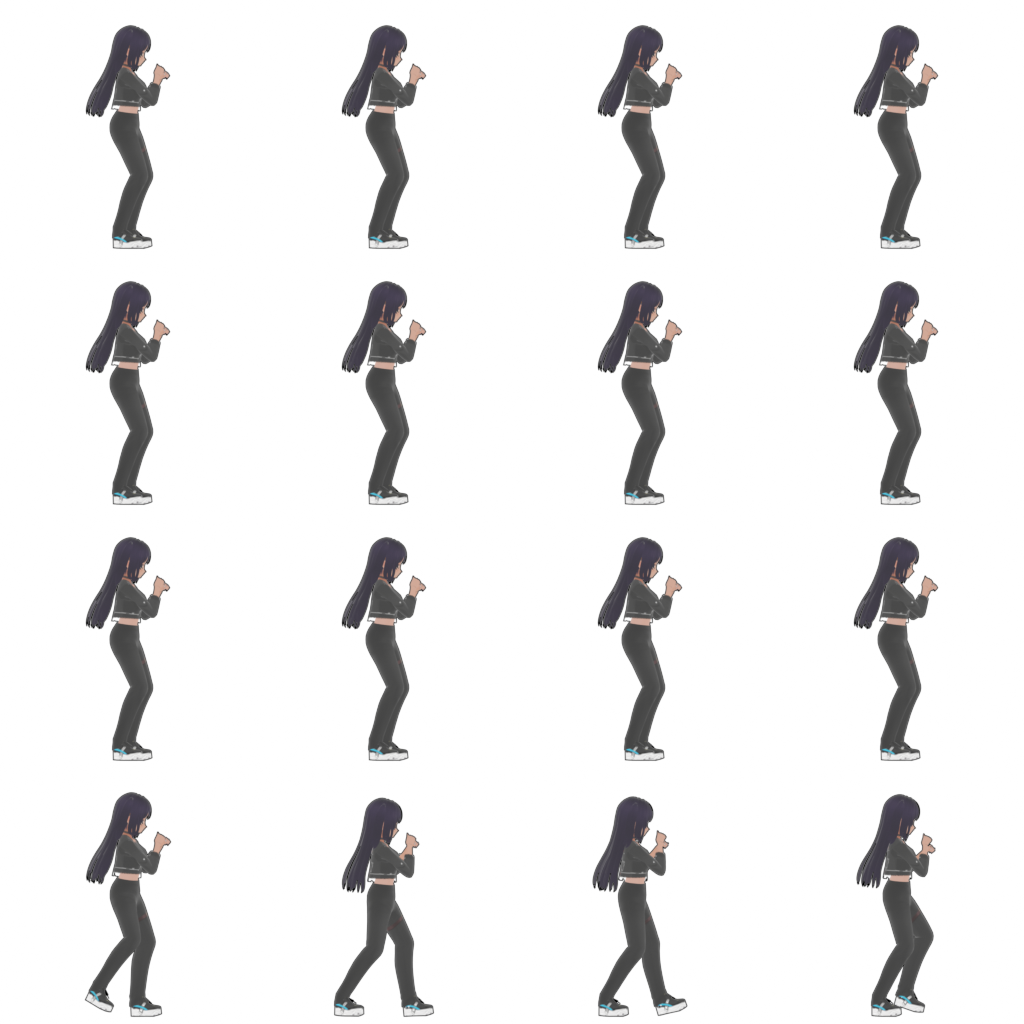
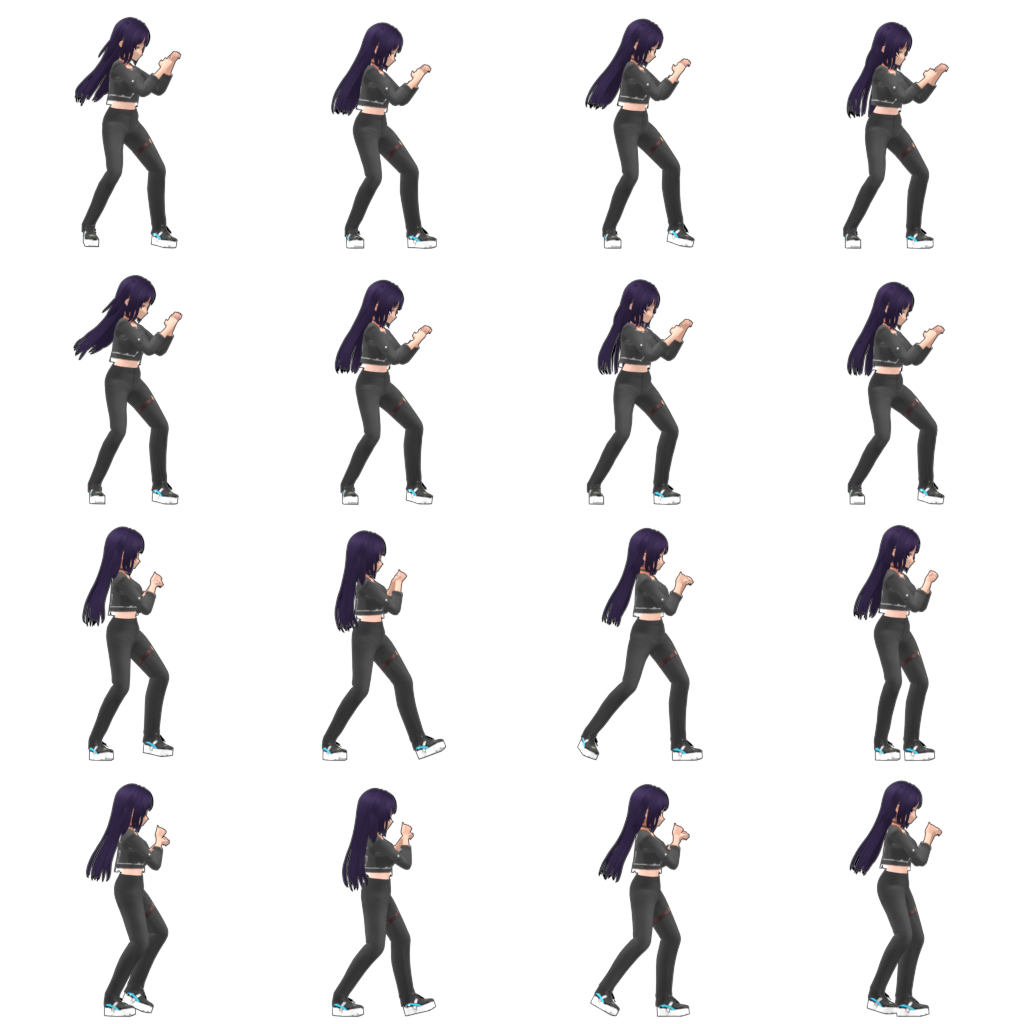
Fix rendering pipeline: NLA extrapolation, segments-only, render notes
- Standardize frame selection to segments with pick values (remove all
  selected_frames from configs and code)
- Change _sample_frames from evenly-spaced to random selection
- Fix sheet 01: NLA extrapolation HOLD→NOTHING (upper tracks were
  overriding lower tracks), rebuild spring bones, restore lights
- Fix sheet 07: remove hybrid camera (was making character too small)
- Fix sheet 10: add render_script/render_note for render_sheet_indv.py,
  document hair_reset on Block animation, remove incorrect hybrid camera
- Fix sheet 11: add forced camera_ortho_scale=1.67
- Add render pipeline docs to CLAUDE.md (two scripts, render_note,
  NLA extrapolation rule)
- Re-render sheets 01, 07, 10

diff --git a/scripts/render_sheet.py b/scripts/render_sheet.py
@@ -597,11 +597,14 @@ def run_spring_bones(stiffness=SPRING_STIFFNESS, damping=SPRING_DAMPING,
 # ============================================================================
 
 def _sample_frames(start, end, count):
-    """Pick count evenly-spaced frames from [start, end] inclusive."""
-    if count == 1:
-        return [round((start + end) / 2)]
-    step = (end - start) / (count - 1)
-    return [round(start + i * step) for i in range(count)]
+    """Pick count random frames from [start, end] inclusive, sorted."""
+    import random
+    if start == end:
+        return [start] * count
+    pool = list(range(start, end + 1))
+    if count >= len(pool):
+        return sorted(pool[:count])
+    return sorted(random.sample(pool, count))
 
 
 def select_frames(config=None):
@@ -614,17 +617,6 @@ def select_frames(config=None):
     """
     if config is None:
         config = _state['config']
-
-    # If hand-picked frames exist in config, use them directly
-    if 'selected_frames' in config:
-        all_frames = config['selected_frames']
-        expr_map = {}
-        _state['selected_frames'] = all_frames
-        _state['expression_map'] = expr_map
-        print(f"\n--- Frame Selection ({len(all_frames)} frames, from config) ---")
-        for i, f in enumerate(all_frames):
-            print(f"  Frame {i+1:2d}: scene={f}")
-        return all_frames, expr_map
 
     arm = _state['armature']
     nla_tracks = arm.animation_data.nla_tracks
@@ -1055,11 +1047,6 @@ def render_from_scene(config_path, blend_path=None):
     assemble_sheet()
     create_gif()
 
-    config['selected_frames'] = frames
-    with open(_state['config_path'], 'w') as f:
-        json.dump(config, f, indent=4)
-    print(f"Config updated with selected_frames")
-
     print("\n" + "=" * 60)
     print("PIPELINE COMPLETE (from scene)")
     print(f"  Sprite sheet: {_state['sheet_path']}")
@@ -1180,12 +1167,6 @@ def run_full_pipeline(config_path):
     assemble_sheet()
     create_gif()
     save_scene()
-
-    # Update config with selected frames
-    config['selected_frames'] = frames
-    with open(_state['config_path'], 'w') as f:
-        json.dump(config, f, indent=4)
-    print(f"Config updated with selected_frames")
 
     print("\n" + "=" * 60)
     print("PIPELINE COMPLETE")

diff --git a/CLAUDE.md b/CLAUDE.md
@@ -18,6 +18,12 @@
 
 - Final sprite sheets go to `data/renders/sheet_XX_name.png` and `.gif`
 - Per-frame render subdirs go to `data/renders/sheet_XX/` (gitignored)
+- **Two render scripts exist:**
+  - `render_sheet.py` — standard pipeline (all animations in sequential NLA, spring bones run once, render all frames in order)
+  - `render_sheet_indv.py` — hybrid pipeline for sheets with `hair_reset` animations. Spring bones still run ONCE across the full sequential NLA. Normal animations render from their NLA positions as usual. But `hair_reset` animations (e.g. Block in sheet 10) have their NLA strip shifted to frame 1 at render time only — this way the rendered frames start from rest pose hair, not hair carrying momentum from earlier animations.
+- **Always check the config's `render_script` field** before rendering. If absent, use `render_sheet.py`. If set, use that script.
+- **Always read `render_note`** in config if present — it explains per-sheet quirks that affect rendering.
+- **NLA extrapolation must be `NOTHING`** for multi-animation sheets. `HOLD` (Blender default) causes upper tracks to override lower tracks outside their frame range, freezing earlier animations. `setup_scene()` sets this correctly, but saved .blends may have wrong values — verify after opening.
 
 ## Blender MCP
 
